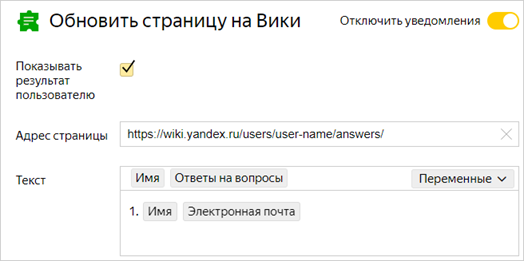
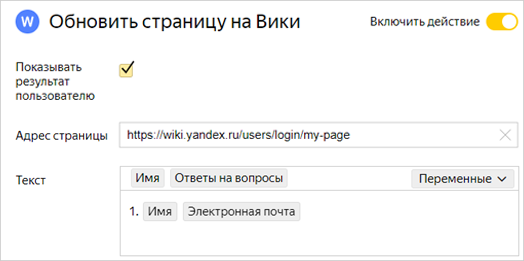
Merge pull request #7398 in CLOUD/docs from DOCSUP-17298.Forms_small_fixes to develop
Squashed commit of the following:

commit 7b8104158f7e86c7ea8a2509a419e708af8d9181
Author: Maria <marryana@yandex-team.ru>
Date:   Tue Feb 22 22:43:22 2022 +0500

    небольшие правки я.форм

    1. запятая в файле create-task
    2. обновлен скриншот в  send-wiki
    3. актуализированы названия кнопок в answers

diff --git a/ru/forms/create-task.md b/ru/forms/create-task.md
@@ -10,7 +10,7 @@
 
 {% endif %}
 
-В форме можно настроить интеграцию с [{{ tracker-short-name }}]({{link-tracker}}), чтобы автоматически создавать задачи при заполнении формы. Ответы пользователя передаются из формы в {{ tracker-short-name }} и на их основе создается задача. Например, такие формы удобно использовать для приема заявок на обслуживание или сбора сообщений об ошибках. Подробнее о задачах читайте в [Справке {{ tracker-full-name }}](../tracker/user/create-ticket.md).
+В форме можно настроить интеграцию с [{{ tracker-short-name }}]({{link-tracker}}), чтобы автоматически создавать задачи при заполнении формы. Ответы пользователя передаются из формы в {{ tracker-short-name }}, и на их основе создается задача. Например, такие формы удобно использовать для приема заявок на обслуживание или сбора сообщений об ошибках. Подробнее о задачах читайте в [Справке {{ tracker-full-name }}](../tracker/user/create-ticket.md).
 
 ## Настроить создание задач в {{ tracker-short-name }} {#setup}
 

diff --git a/ru/forms/answers.md b/ru/forms/answers.md
@@ -44,7 +44,7 @@
 
 	   {% endif %}
 
-       Нажмите кнопку **Загрузить на Я.Диск**. Чтобы сохранить на Диск вложения из ответов формы, выберите **Загрузить на Я.Диск вместе с прикрепленными файлами**.
+       Нажмите кнопку **Загрузить на Я.Диск**. Чтобы сохранить на Диск вложения из ответов формы, выберите **Сохранить на Диск с прикреплёнными файлами.**.
                         
        * Если вы выбрали формат файла XLSX, таблица с ответами откроется в онлайн-редакторе Яндекс.Диска.
        * Если вы выбрали формат CSV или JSON, откроется папка на Диске с сохраненным файлом.
